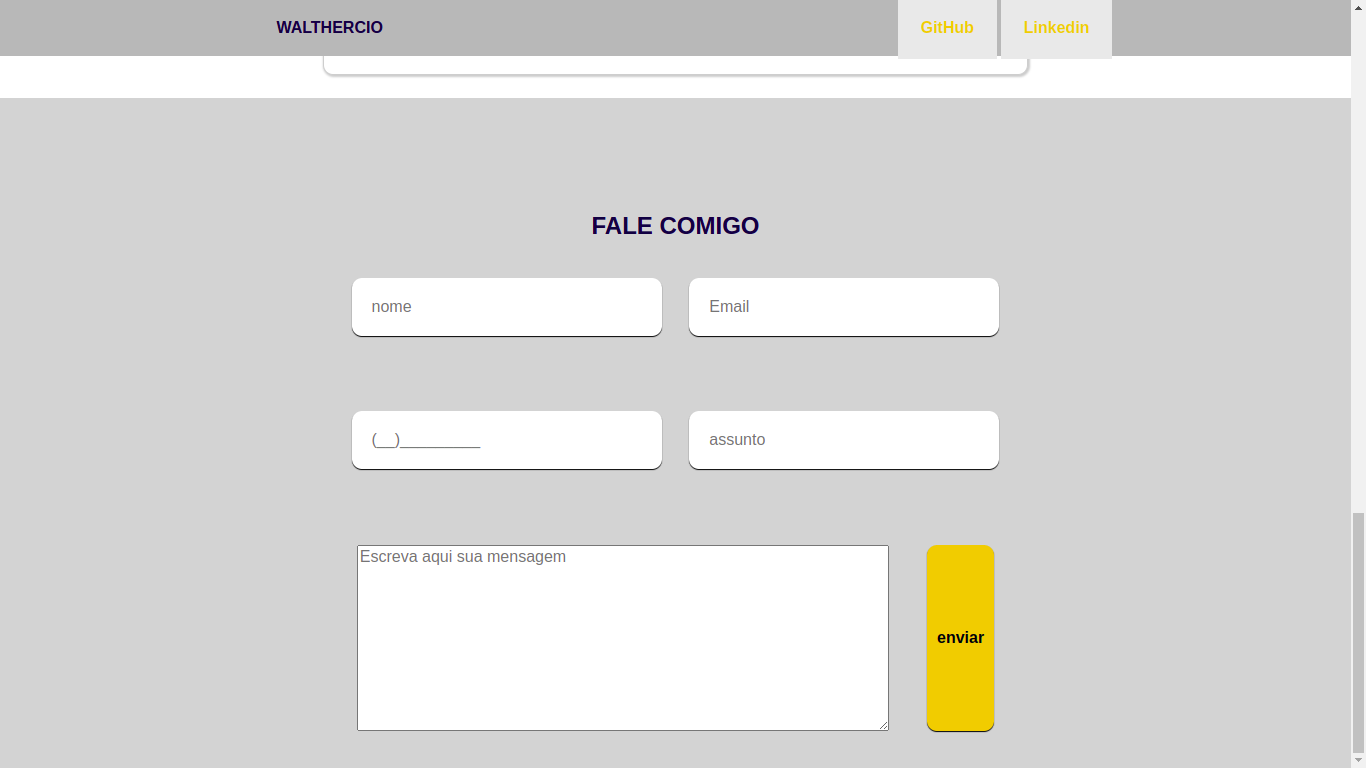
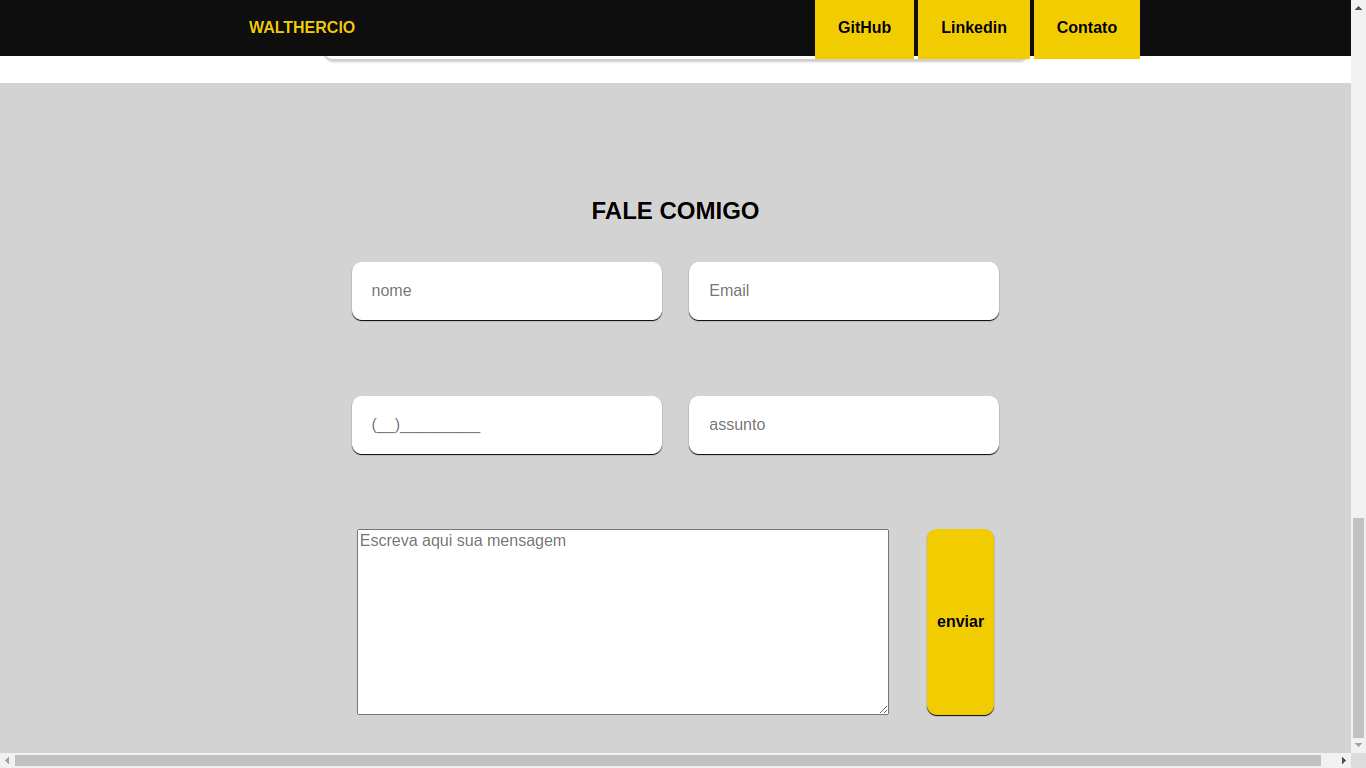
mudança foto readme

diff --git a/style.css b/style.css
@@ -15,11 +15,11 @@
 
 .box {
 	display: flex;
-
+   
 	color: white;
 	margin-left: 6cm;
 	flex-direction: row;
-	padding-top: 20%;
+	padding-top: 24%;
 	transition: 1s;
 	letter-spacing: 0cm;
 
